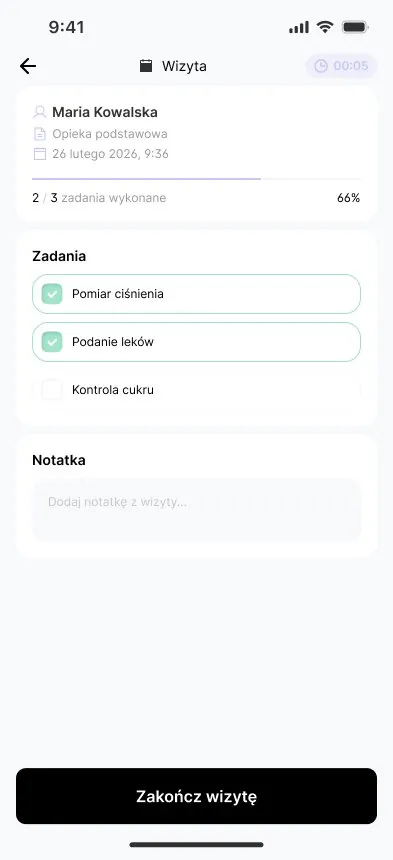
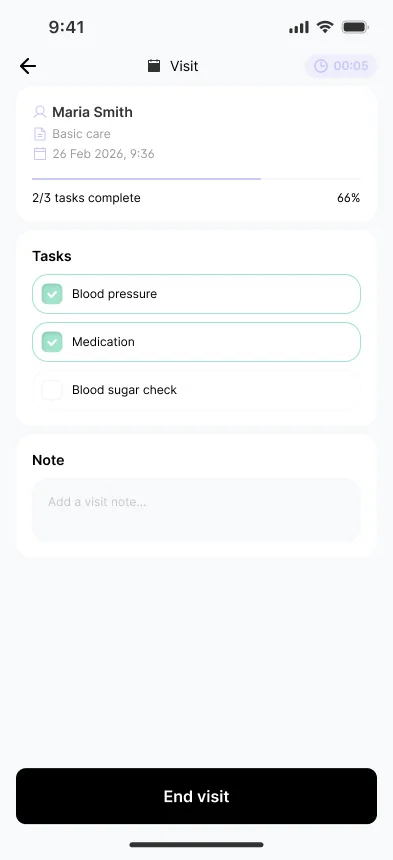
SiDLY Health mobile screens in English from Figma; humbler GovBot copy; plugin re-translates on rerun

diff --git a/work/sidly-health/index.html b/work/sidly-health/index.html
@@ -61,7 +61,7 @@
 <section class="cp-sec" id="the-care-manager-s-mobile-app" data-rail="The care manager&#x27;s mobile app"><h2 class="reveal">The care manager's mobile app</h2><p class="cp-lead reveal">Care managers run their team from the phone as much as from the desk. This flow covers the carers: who they look after, when they work and what they can access.</p><div class="phones"><figure class="phone reveal"><div class="device"><img decoding="async" src="../../assets/health/mgr-carers.webp" alt="Carers screen" loading="lazy" width="393" height="851"></div><figcaption><b>Carers</b>Who is on the team, who is active and when each person works today.</figcaption></figure><figure class="phone reveal"><div class="device"><img decoding="async" src="../../assets/health/mgr-profile.webp" alt="Carer profile" loading="lazy" width="393" height="851"></div><figcaption><b>Carer profile</b>Residents, today's hours, today's visits and access, on one screen.</figcaption></figure><figure class="phone reveal"><div class="device"><img decoding="async" src="../../assets/health/mgr-hours.webp" alt="Working hours" loading="lazy" width="393" height="851"></div><figcaption><b>Working hours</b>Set per weekday, with several ranges a day for split shifts.</figcaption></figure><figure class="phone reveal"><div class="device"><img decoding="async" src="../../assets/health/mgr-visits.webp" alt="Today&#x27;s visits" loading="lazy" width="393" height="851"></div><figcaption><b>Today's visits</b>Each visit with its care hours, editable from the list.</figcaption></figure></div></section>
 <section class="cp-sec" id="the-carer-s-planner" data-rail="The carer&#x27;s Planner"><h2 class="reveal">The carer's Planner</h2><p class="cp-lead reveal">Carers use the Planner on their phone during the visit. The flow is built around the scan: a visit starts when the phone touches the resident's tag and ends the same way.</p><div class="phones"><figure class="phone reveal"><div class="device"><img decoding="async" src="../../assets/health/carer-home.webp" alt="Planner home" loading="lazy" width="393" height="851"></div><figcaption><b>Today</b>Time worked so far, filled-in care cards and today's visits.</figcaption></figure><figure class="phone reveal"><div class="device"><img decoding="async" src="../../assets/health/carer-start.webp" alt="Start a visit" loading="lazy" width="393" height="851"></div><figcaption><b>Start a visit</b>Scan the resident's QR code or NFC tag. There is no other way in.</figcaption></figure><figure class="phone reveal"><div class="device"><img decoding="async" src="../../assets/health/carer-nfc.webp" alt="NFC scan" loading="lazy" width="393" height="851"></div><figcaption><b>NFC scan</b>Hold the phone to the resident's band or Planner device.</figcaption></figure><figure class="phone reveal"><div class="device"><img decoding="async" src="../../assets/health/carer-visit.webp" alt="Visit in progress" loading="lazy" width="393" height="851"></div><figcaption><b>Visit in progress</b>Tasks from the care card, ticked off on the spot, with a note for the office.</figcaption></figure></div></section>
 <section class="cp-sec" id="the-resident-s-app" data-rail="The resident&#x27;s app"><h2 class="reveal">The resident's app</h2><p class="cp-lead reveal">The resident sees the same visits from the other side: who came, what was done, and a place to say how it went.</p><div class="phones"><figure class="phone reveal"><div class="device"><img decoding="async" src="../../assets/health/res-home.webp" alt="Resident home" loading="lazy" width="393" height="851"></div><figcaption><b>Home</b>The band, recent visits and today's readings on one screen.</figcaption></figure><figure class="phone reveal"><div class="device"><img decoding="async" src="../../assets/health/res-history.webp" alt="Visit history" loading="lazy" width="393" height="851"></div><figcaption><b>Visit history</b>Every visit with its carer, tasks done and rating.</figcaption></figure><figure class="phone reveal"><div class="device"><img decoding="async" src="../../assets/health/res-rate.webp" alt="Rate a visit" loading="lazy" width="393" height="851"></div><figcaption><b>Rate a visit</b>Stars for each task and for the visit, plus the carer's note.</figcaption></figure><figure class="phone reveal"><div class="device"><img decoding="async" src="../../assets/health/res-health.webp" alt="Health readings" loading="lazy" width="393" height="851"></div><figcaption><b>Health readings</b>Pulse, saturation and steps from the band, in large type.</figcaption></figure></div></section>
-<section class="cp-sec" id="the-web-platform" data-rail="The web platform"><h2 class="reveal">The web platform</h2><p class="cp-lead reveal">At the desk the same data gets more room. The manager plans and settles the team's work, carers follow their visits from a laptop, and residents see their own record.</p><div class="shots"><figure class="shot reveal"><div class="browser"><img decoding="async" src="../../assets/health/web-dashboard.webp" alt="Manager&#x27;s dashboard" loading="lazy"></div><figcaption><b>Manager's dashboard</b>What needs a reaction comes first, then the carers in the field today and the week's visits.</figcaption></figure><figure class="shot reveal"><div class="browser"><img decoding="async" src="../../assets/health/web-schedule.webp" alt="Weekly schedule" loading="lazy"></div><figcaption><b>Schedule</b>A week per carer, with the residents who have no visit this week listed underneath.</figcaption></figure><figure class="shot reveal"><div class="browser"><img decoding="async" src="../../assets/health/web-visit.webp" alt="Visit in progress" loading="lazy"></div><figcaption><b>Visit in progress</b>The care card mid-visit. Tasks and notes save as they go; the visit ends in the mobile app.</figcaption></figure><figure class="shot reveal"><div class="browser"><img decoding="async" src="../../assets/health/web-res-home.webp" alt="Resident&#x27;s home" loading="lazy"></div><figcaption><b>Resident's home</b>The next visit, a prompt to rate the last one, and who to call.</figcaption></figure></div><p class="note">The product ships in Polish, so the screens are in Polish. All names and data are test data.</p></section>
+<section class="cp-sec" id="the-web-platform" data-rail="The web platform"><h2 class="reveal">The web platform</h2><p class="cp-lead reveal">At the desk the same data gets more room. The manager plans and settles the team's work, carers follow their visits from a laptop, and residents see their own record.</p><div class="shots"><figure class="shot reveal"><div class="browser"><img decoding="async" src="../../assets/health/web-dashboard.webp" alt="Manager&#x27;s dashboard" loading="lazy"></div><figcaption><b>Manager's dashboard</b>What needs a reaction comes first, then the carers in the field today and the week's visits.</figcaption></figure><figure class="shot reveal"><div class="browser"><img decoding="async" src="../../assets/health/web-schedule.webp" alt="Weekly schedule" loading="lazy"></div><figcaption><b>Schedule</b>A week per carer, with the residents who have no visit this week listed underneath.</figcaption></figure><figure class="shot reveal"><div class="browser"><img decoding="async" src="../../assets/health/web-visit.webp" alt="Visit in progress" loading="lazy"></div><figcaption><b>Visit in progress</b>The care card mid-visit. Tasks and notes save as they go; the visit ends in the mobile app.</figcaption></figure><figure class="shot reveal"><div class="browser"><img decoding="async" src="../../assets/health/web-res-home.webp" alt="Resident&#x27;s home" loading="lazy"></div><figcaption><b>Resident's home</b>The next visit, a prompt to rate the last one, and who to call.</figcaption></figure></div><p class="note">Mobile screens shown in English for this page; the product ships in Polish. All names and data are test data.</p></section>
 <section class="cp-sec" id="key-design-decisions" data-rail="Key design decisions"><h2 class="reveal">Key design decisions</h2><ol class="decisions reveal"><li><details open><summary>A visit starts with a scan</summary><p>The carer starts and ends each visit by scanning the resident's NFC tag with their phone. Work time is recorded as it happened, not as it was planned, and carers' hours are settled from it.</p></details></li><li><details open><summary>The care card has a lifetime</summary><p>Before a visit the care card is the plan. During the visit the carer fills it in. After the visit it becomes the record that the resident and the office read, so it is locked as it was when the visit ended.</p></details></li><li><details open><summary>The resident's home screen answers three questions</summary><p>Am I all right, what do I need to do today, and when is someone coming? Large text, large touch targets, few words, and SOS always on top.</p></details></li><li><details open><summary>Urgent first, then the day</summary><p>The manager's dashboard opens with what needs a reaction, then today's visits in the field, the week ahead and equipment. Each block leads to the screen where that issue gets solved.</p></details></li><li><details open><summary>Recurring visits stay ordinary visits</summary><p>A series is a set of normal visits that share a tag, so any single one can be moved or cancelled without breaking the rest.</p></details></li><li><details open><summary>Prototype in code, not in frames</summary><p>The flows are built as a clickable React/TypeScript prototype with realistic test data, so managers and carers test whole visits instead of single screens.</p></details></li></ol></section>
     <nav class="pn reveal" aria-label="More projects">
       <a class="next prev" href="../funnel-elt/"><span class="label">Previous</span><b>Funnel ELT</b><span class="arrow" aria-hidden="true">←</span></a>

diff --git a/index.html b/index.html
@@ -301,7 +301,7 @@ try{if(!location.hash&&!sessionStorage.getItem('ks-intro')&&!matchMedia('(prefer
         <figure class="shot"><div class="browser"><img decoding="async" src="assets/health/web-res-home.webp" width="1024" height="657" alt="Resident's home screen on the web platform" loading="lazy"></div><figcaption><b>Resident's home</b>The next visit, a prompt to rate the last one, and who to call.</figcaption></figure>
       </div>
     </div>
-    <p class="note">The product ships in Polish, so the screens are in Polish. All names and data are test data.</p>
+    <p class="note">Mobile screens shown in English for this page; the product ships in Polish. All names and data are test data.</p>
 
     <div class="dec-head sub-h reveal"><h3 style="font-size:1.25rem">Key design decisions</h3><button class="copy" type="button" data-openall>Open all</button></div>
     <ol class="decisions reveal">
@@ -371,7 +371,7 @@ try{if(!location.hash&&!sessionStorage.getItem('ks-intro')&&!matchMedia('(prefer
       </figure>
       <div class="aw-main">
         <p class="aw-kicker"><span class="aw-dot" aria-hidden="true"></span>1st place · AI Place Challenge 2025</p>
-        <p class="aw-lead">I led the team and owned everything AI in <b>GovBot</b>, an assistant that gets citizens to the right local service.</p>
+        <p class="aw-lead">Our team built <b>GovBot</b>, an assistant that helps people find the right local office or service. I led the team and built the AI part in n8n.</p>
         <p class="aw-sub">Set by the Polish Ministry of Digital Affairs · Econverse Smart Cities Hackathon, Warsaw</p>
       </div>
       <div class="aw-photos">
@@ -603,7 +603,7 @@ try{if(!location.hash&&!sessionStorage.getItem('ks-intro')&&!matchMedia('(prefer
       </figure>
       <div class="aw-main">
         <p class="aw-kicker"><span class="aw-dot" aria-hidden="true"></span>1st place · AI Place Challenge 2025</p>
-        <p class="aw-lead">I led the team and owned everything AI in <b>GovBot</b>, an assistant that gets citizens to the right local service.</p>
+        <p class="aw-lead">Our team built <b>GovBot</b>, an assistant that helps people find the right local office or service. I led the team and built the AI part in n8n.</p>
         <p class="aw-sub">Set by the Polish Ministry of Digital Affairs · Econverse Smart Cities Hackathon, Warsaw</p>
       </div>
       <div class="aw-photos">
@@ -936,7 +936,7 @@ try{if(!location.hash&&!sessionStorage.getItem('ks-intro')&&!matchMedia('(prefer
     {k:'unmasked dark patterns manipulative copy manipulacja classifier klasyfikator chrome extension rozszerzenie f1 auc tfidf tf-idf logistic regression bachelor licencjat thesis',a:"Unmasked is her B.A. thesis at SWPS: she compared five classifiers on 2,356 labelled interface texts, and Logistic Regression on TF-IDF won with <b>F1 0.936</b> and <b>ROC AUC 0.976</b>. The model's top features became rules in a Chrome extension that flags manipulative copy offline. There's a live demo on the page.",x:[['Try the demo','data','unmasked'],['Code on GitHub','https://github.com/kachastepien/unmasked']]},
     {k:'healthplatform wearable wristband opaska rag ai assistant langflow astradb whisper elevenlabs engineering thesis inzynierka inzynierska health summary supabase',a:"HealthPlatform is her B.Eng. thesis: it takes biometric data from the SiDLY medical wristband and the user's medical documents and turns them into a readable health summary and recommendations. It uses RAG in Langflow with AstraDB, GPT-4 and Groq, Whisper to listen and ElevenLabs to speak, on React, TypeScript and Supabase.",x:[['Full project','work/healthplatform/']]},
     {k:'kafka spark debezium cdc streaming delta lake minio data engineering pipeline friction rage clicks abandonment duckdb elt sql medallion bronze silver gold inzynieria danych',a:"She builds data platforms too: a <b>UX friction detection</b> stack (PostgreSQL, Debezium CDC, Kafka, Spark Structured Streaming, Delta Lake on MinIO) that flags rage clicks and abandonment in real time, a reusable mini data platform with bronze, silver and gold layers, and a SQL ELT in DuckDB with explicit data-quality rules.",x:[['UX friction','data','friction'],['Funnel ELT','data','elt']]},
-    {k:'hackathon hackaton govbot gov bot win won winner award prize first place 1st ai place challenge ministry ministerstwo cyfryzacji econverse smart cities n8n agent wygrala nagroda wygrana',a:"She won <b>1st place</b> in the AI Place Challenge at the Econverse Smart Cities Hackathon in Warsaw (26–27 March 2025), a challenge set by the Polish Ministry of Digital Affairs; the team presented it on stage at Econverse Fuse 2025. She was team lead and owned everything AI in <b>GovBot</b>, built in n8n: an AI assistant that helps citizens reach local public services without unnecessary bureaucracy.",x:[['See it','design','ai']]},
+    {k:'hackathon hackaton govbot gov bot win won winner award prize first place 1st ai place challenge ministry ministerstwo cyfryzacji econverse smart cities n8n agent wygrala nagroda wygrana',a:"She won <b>1st place</b> in the AI Place Challenge at the Econverse Smart Cities Hackathon in Warsaw (26–27 March 2025), a challenge set by the Polish Ministry of Digital Affairs; the team presented it on stage at Econverse Fuse 2025. She led the team behind <b>GovBot</b> and built its AI part in n8n: an assistant that helps citizens reach local public services without unnecessary bureaucracy.",x:[['See it','design','ai']]},
     {k:'lemi hackyeah lemur doctor lekarz visit app claude elevenlabs flutter health guide pekao',a:"Lemi is her HackYeah 2026 project: a health guide with a friendly lemur. It reads blood pressure monitors from a photo, explains test results in plain language, and turns a recorded visit into three summaries: for you, for family and for the doctor. Built on the Claude API with ElevenLabs, as a web app and a Flutter app.",x:[['Lemi story','work/lemi/'],['Try the demo','https://pekao.vercel.app']]},
     {k:'ai llm agents automation chatbot gpt claude genai generative artificial intelligence sztuczna inteligencja perfectbot conversational',a:"AI runs through her work: an n8n AI assistant that won the AI Place Challenge, Lemi on the Claude API, a RAG assistant over medical documents in her engineering thesis, and an internship at PerfectBot improving conversational AI chatbots for IKEA, LPP, x-kom and US creator stores.",x:[['AI in products','data','ai-data']]},
     {k:'design skills figma ux ui research usability testing prototyping accessibility tools umiejetnosci projektowanie badania dostepnosc',a:"Design and research: product and UX/UI design, interaction design, prototyping, information architecture, accessible design for older adults, conversational UX, user research, usability testing, behavioural psychology, brand identity and packaging.",x:[['All skills','design','about']]},

diff --git a/scripts/build_projects.py b/scripts/build_projects.py
@@ -160,7 +160,7 @@ P.append(dict(
             ("health/web-schedule.jpg", "Weekly schedule", "Schedule", "A week per carer, with the residents who have no visit this week listed underneath."),
             ("health/web-visit.jpg", "Visit in progress", "Visit in progress", "The care card mid-visit. Tasks and notes save as they go; the visit ends in the mobile app."),
             ("health/web-res-home.jpg", "Resident's home", "Resident's home", "The next visit, a prompt to rate the last one, and who to call.")]),
-            '<p class="note">The product ships in Polish, so the screens are in Polish. All names and data are test data.</p>',
+            '<p class="note">Mobile screens shown in English for this page; the product ships in Polish. All names and data are test data.</p>',
             lead="At the desk the same data gets more room. The manager plans and settles the team's work, carers follow their visits from a laptop, and residents see their own record."),
         section("Key design decisions", decisions([
             ("A visit starts with a scan", "The carer starts and ends each visit by scanning the resident's NFC tag with their phone. Work time is recorded as it happened, not as it was planned, and carers' hours are settled from it."),
